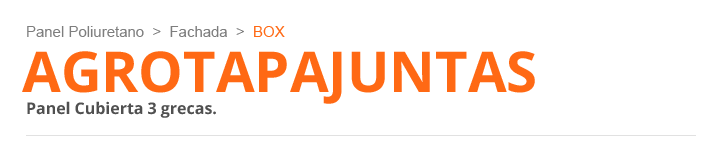
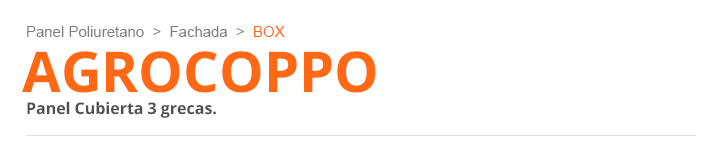
Perfiles

diff --git a/productos/poliuretano/agropanel/agrocoppo.html b/productos/poliuretano/agropanel/agrocoppo.html
@@ -1,0 +1,52 @@
+<section class="producto">
+  <div class="nombreProducto">
+    <h2>AGROCOPPO</h2><span class="rutaProducto">Panel Poliuretano / Agropanel / Agrocoppo</span>
+  </div>
+  <hr>
+  <div class="row">
+  	<div class="col-sm-6">
+  		<!--<p class="subtitutlo fnaranja">Panel Cubierta 3 grecas.</p>-->
+  		<p>Sobrecargas admisibles uniformemente distribuidas en kg/m2 (Ratio de conversión 1kg/m2 = 0,00981 KN/m2).<br>
+Las tablas se han desarrollado para paneles con soportes de acero, imponiendo la limitación de deformación: Flecha f=1/200 l.
+Coeficiente de seguridad K=2.5
+		</p>
+  	</div>
+  	<div class="col-sm-6">
+  		<img src="productos/poliuretano/agropanel/agrocoppo.png" class="img-responsive">
+  	</div>
+  </div>
+  <p class="subtitutlo fnaranja">Versión 1. Paneles Solapables. Para Instalaciones.</p>
+  <div class="row">
+    <div class="col-sm-6">
+      <img src="productos/poliuretano/agropanel/aversion1.png" class="img-responsive">
+    </div>
+    <div class="col-sm-6">
+      <p> Cada medida debe ser un múltiplo de 350 mm (+180 mm) en un intervalo comprendido entre 2,280 mm y 12,480 mm.</p>
+    </div>
+  </div>
+  <p class="subtitutlo fnaranja">Versión 2. Paneles no solapables. Para Almacenes.</p>
+  <div class="row">
+    <div class="col-sm-6">
+      <img src="productos/poliuretano/agropanel/aversion2.png" class="img-responsive">
+    </div>
+    <div class="col-sm-6">
+        <p>Cada medida debe ser un múltiplo de 350 mm en un intervalo comprendido entre 2,100 mm y 13,300 mm.</p>
+    </div>
+  </div>
+  <!-- tablas ocultas en xs -->
+  <div class="tabas hidden-xs text-center">
+    <span class="">Espesor (mm)</span>
+  	<img src="productos/poliuretano/agropanel/acespesor1.png">
+
+    <hr>
+    <img src="productos/poliuretano/agropanel/actabla1.png" class="img-responsive inline">
+
+   
+    
+  </div>
+  <!-- boton pdf -->
+  <div class="pdf">
+  	<button type="button" class="btn btn-success btn-lg btn-block">Más Especificaciones</button>
+  </div>
+
+</section>

diff --git a/productos/perfiles/cumbrera.html b/productos/perfiles/cumbrera.html
@@ -1,0 +1,53 @@
+<section class="producto">
+  <div class="nombreProducto">
+    <h2>CUMBRERA</h2><span class="rutaProducto">Perfiles / Cumbrera</span>
+  </div>
+  <hr>
+  <div class="row">
+  	<div class="col-sm-12">
+  		<p class="subtitutlo fnaranja">Caballete liso / Cumbrera / Parteaguas.</p>
+  		<p>Se fabrica en lámina pintro calibre 24 y 26. Se utiliza en los techos y cubiertas para cubrir y unir dos aguas Los desarrollos estándar son de 45 en largos de 3.05 metros</p>
+      <br>
+     
+  	</div>
+  </div>
+   <p class="subtitutlo fnaranja">Accesorios para tipo coppo</p>
+     
+  <div class="row">
+    <div class="col-sm-6">
+      
+        - Cumbrera tipo coppo.<br>
+        - Remate junta-pared.<br>
+        - Canalón.<br>
+        - Remate lateral.
+      
+    </div>
+    <div class="col-sm-6">
+      - Closure.<br>
+      - Placas de fijacion.<br>
+      - Pijas.
+  
+    </div>
+     <img src="productos/perfiles/coppo.png" class="img-responsive">
+     <!--<div class="col-sm-6">
+  		<img src="productos/perfiles/placafijacion.png" class="img-responsive">
+  	</div>-->
+  </div>
+  <!-- tablas ocultas en xs -->
+  <!--<div class="tabas hidden-xs text-center">
+    <span class="">Espesor (mm)</span>
+  	<img src="productos/lanamineral/construccion/twrespesor1.png">
+    <hr>
+    
+    <img src="productos/lanamineral/construccion/mwtabla1.png" class="img-responsive inline">
+    <br><br>
+    <p class="text-center">Esquema Estático - Cuatro Apoyos - Distancia entre apoyos en cm.</p>
+    <img src="productos/lanamineral/construccion/twrtabla2.png" class="img-responsive inline">
+    <p class="text-center">Las tablas se han desarrollado para paneles con soportes de acero, de 0,6 mm en el exterior y 0,5 mm en el interior, imponiendo la limitación de deformación: f=1/200 L</p>
+  </div>-->
+  <!-- boton pdf -->
+  <div class="pdf">
+  	<button type="button" class="btn btn-success btn-lg btn-block">Más Especificaciones</button>
+  </div>
+
+</section>

diff --git a/productos/perfiles/canalu.html b/productos/perfiles/canalu.html
@@ -1,0 +1,38 @@
+<section class="producto">
+  <div class="nombreProducto">
+    <h2>CANAL U</h2><span class="rutaProducto">Perfiles / Canal U</span>
+  </div>
+  <hr>
+  <div class="row">
+  	<div class="col-sm-6">
+  		<p class="subtitutlo fnaranja">Canal de desplante.</p>
+  		<p>Se fabrica en lámina pintro calibre 20, 22 y 24.<br>
+        Se utiliza como base, unida a un firme como guía para la instalación de panel para muro.
+        <br><br>
+         Otra de sus aplicaciones es utilizarlo como marco perimetral para ocultar el poliuretano del panel en detalles arquitectónicos de ventanas, y puertas.<br>
+        Se fabrica de acuerdo al espesor del panel en largos de 3.05 metros
+
+		</p>
+  	</div>
+     <div class="col-sm-6">
+  		<img src="productos/perfiles/canalu.png" class="img-responsive">
+  	</div>
+  </div>
+  <!-- tablas ocultas en xs -->
+  <!--<div class="tabas hidden-xs text-center">
+    <span class="">Espesor (mm)</span>
+  	<img src="productos/lanamineral/construccion/twrespesor1.png">
+    <hr>
+    
+    <img src="productos/lanamineral/construccion/mwtabla1.png" class="img-responsive inline">
+    <br><br>
+    <p class="text-center">Esquema Estático - Cuatro Apoyos - Distancia entre apoyos en cm.</p>
+    <img src="productos/lanamineral/construccion/twrtabla2.png" class="img-responsive inline">
+    <p class="text-center">Las tablas se han desarrollado para paneles con soportes de acero, de 0,6 mm en el exterior y 0,5 mm en el interior, imponiendo la limitación de deformación: f=1/200 L</p>
+  </div>-->
+  <!-- boton pdf -->
+  <div class="pdf">
+  	<button type="button" class="btn btn-success btn-lg btn-block">Más Especificaciones</button>
+  </div>
+
+</section>

diff --git a/productos/perfiles/esquineroint.html b/productos/perfiles/esquineroint.html
@@ -1,0 +1,36 @@
+<section class="producto">
+  <div class="nombreProducto">
+    <h2>ESQUINERO INTERIOR</h2><span class="rutaProducto">Perfiles / Esquinero Interior</span>
+  </div>
+  <hr>
+  <div class="row">
+  	<div class="col-sm-6">
+  		<p class="subtitutlo fnaranja">Remate de ángulo recto ”L”.</p>
+  		<p>Se fabrica en lámina pintro en calibre 22 y 24. 
+        <br><br>
+        Se utiliza para unir panel con pared, panel con panel, panel con techo y en esquinas o vueltas interiores. Tiene un desarrollo estándar de 16 cm en largos de 3.05 metros.
+
+		</p>
+  	</div>
+     <div class="col-sm-6">
+  		<img src="productos/perfiles/esqint.png" class="img-responsive">
+  	</div>
+  </div>
+  <!-- tablas ocultas en xs -->
+  <!--<div class="tabas hidden-xs text-center">
+    <span class="">Espesor (mm)</span>
+  	<img src="productos/lanamineral/construccion/twrespesor1.png">
+    <hr>
+    
+    <img src="productos/lanamineral/construccion/mwtabla1.png" class="img-responsive inline">
+    <br><br>
+    <p class="text-center">Esquema Estático - Cuatro Apoyos - Distancia entre apoyos en cm.</p>
+    <img src="productos/lanamineral/construccion/twrtabla2.png" class="img-responsive inline">
+    <p class="text-center">Las tablas se han desarrollado para paneles con soportes de acero, de 0,6 mm en el exterior y 0,5 mm en el interior, imponiendo la limitación de deformación: f=1/200 L</p>
+  </div>-->
+  <!-- boton pdf -->
+  <div class="pdf">
+  	<button type="button" class="btn btn-success btn-lg btn-block">Más Especificaciones</button>
+  </div>
+
+</section>

diff --git a/productos/perfiles/pijaspuntadebroca.html b/productos/perfiles/pijaspuntadebroca.html
@@ -1,0 +1,36 @@
+<section class="producto">
+  <div class="nombreProducto">
+    <h2>PIJAS PUNTA DE BROCA</h2><span class="rutaProducto">Perfiles / Pijas Punta de Broca</span>
+  </div>
+  <hr>
+  <div class="row">
+  	<div class="col-sm-6">
+  		<p class="subtitutlo fnaranja">Pija punta de broca para muro.</p>
+  		<!--<p>Se fabrica en lámina pintro en calibre 22 y 24.
+      <br><br>
+       Se utiliza para unir panel con pared o panel con panel en esquinas o vueltas exteriores. Se fabrica de acuerdo al espesor del panel en largos de 3.05 metros.-->
+
+		</p>
+  	</div>
+     <div class="col-sm-6">
+  		<img src="productos/perfiles/pijabroca.png" class="img-responsive">
+  	</div>
+  </div>
+  <!-- tablas ocultas en xs -->
+  <!--<div class="tabas hidden-xs text-center">
+    <span class="">Espesor (mm)</span>
+  	<img src="productos/lanamineral/construccion/twrespesor1.png">
+    <hr>
+    
+    <img src="productos/lanamineral/construccion/mwtabla1.png" class="img-responsive inline">
+    <br><br>
+    <p class="text-center">Esquema Estático - Cuatro Apoyos - Distancia entre apoyos en cm.</p>
+    <img src="productos/lanamineral/construccion/twrtabla2.png" class="img-responsive inline">
+    <p class="text-center">Las tablas se han desarrollado para paneles con soportes de acero, de 0,6 mm en el exterior y 0,5 mm en el interior, imponiendo la limitación de deformación: f=1/200 L</p>
+  </div>-->
+  <!-- boton pdf -->
+  <div class="pdf">
+  	<button type="button" class="btn btn-success btn-lg btn-block">Más Especificaciones</button>
+  </div>
+
+</section>

diff --git a/productos/perfiles/esquineroext.html b/productos/perfiles/esquineroext.html
@@ -1,0 +1,36 @@
+<section class="producto">
+  <div class="nombreProducto">
+    <h2>ESQUINERO EXTERIOR</h2><span class="rutaProducto">Perfiles / Esquinero Exterior</span>
+  </div>
+  <hr>
+  <div class="row">
+  	<div class="col-sm-6">
+  		<p class="subtitutlo fnaranja">Remate de ángulo recto ”L”.</p>
+  		<p>Se fabrica en lámina pintro en calibre 22 y 24.
+      <br><br>
+       Se utiliza para unir panel con pared o panel con panel en esquinas o vueltas exteriores. Se fabrica de acuerdo al espesor del panel en largos de 3.05 metros.
+
+		</p>
+  	</div>
+     <div class="col-sm-6">
+  		<img src="productos/perfiles/esqext.png" class="img-responsive">
+  	</div>
+  </div>
+  <!-- tablas ocultas en xs -->
+  <!--<div class="tabas hidden-xs text-center">
+    <span class="">Espesor (mm)</span>
+  	<img src="productos/lanamineral/construccion/twrespesor1.png">
+    <hr>
+    
+    <img src="productos/lanamineral/construccion/mwtabla1.png" class="img-responsive inline">
+    <br><br>
+    <p class="text-center">Esquema Estático - Cuatro Apoyos - Distancia entre apoyos en cm.</p>
+    <img src="productos/lanamineral/construccion/twrtabla2.png" class="img-responsive inline">
+    <p class="text-center">Las tablas se han desarrollado para paneles con soportes de acero, de 0,6 mm en el exterior y 0,5 mm en el interior, imponiendo la limitación de deformación: f=1/200 L</p>
+  </div>-->
+  <!-- boton pdf -->
+  <div class="pdf">
+  	<button type="button" class="btn btn-success btn-lg btn-block">Más Especificaciones</button>
+  </div>
+
+</section>

diff --git a/productos/perfiles/closure.html b/productos/perfiles/closure.html
@@ -1,0 +1,34 @@
+<section class="producto">
+  <div class="nombreProducto">
+    <h2>CLOSURE</h2><span class="rutaProducto">Perfiles / Closure</span>
+  </div>
+  <hr>
+  <div class="row">
+  	<div class="col-sm-6">
+  		<p class="subtitutlo fnaranja">Sello de Polietileno.</p>
+  		<p>Diseñado para cada perfil de lámina acanalada y consigue rellenar precisamente los huecos que quedan entre  láminas acanaladas y superficies lisas tales como los remates y molduras.
+
+		</p>
+  	</div>
+     <!--<div class="col-sm-6">
+  		<img src="productos/perfiles/placafijacion.png" class="img-responsive">
+  	</div>-->
+  </div>
+  <!-- tablas ocultas en xs -->
+  <!--<div class="tabas hidden-xs text-center">
+    <span class="">Espesor (mm)</span>
+  	<img src="productos/lanamineral/construccion/twrespesor1.png">
+    <hr>
+    
+    <img src="productos/lanamineral/construccion/mwtabla1.png" class="img-responsive inline">
+    <br><br>
+    <p class="text-center">Esquema Estático - Cuatro Apoyos - Distancia entre apoyos en cm.</p>
+    <img src="productos/lanamineral/construccion/twrtabla2.png" class="img-responsive inline">
+    <p class="text-center">Las tablas se han desarrollado para paneles con soportes de acero, de 0,6 mm en el exterior y 0,5 mm en el interior, imponiendo la limitación de deformación: f=1/200 L</p>
+  </div>-->
+  <!-- boton pdf -->
+  <div class="pdf">
+  	<button type="button" class="btn btn-success btn-lg btn-block">Más Especificaciones</button>
+  </div>
+
+</section>

diff --git a/productos/perfiles/placasfijaciontecho.html b/productos/perfiles/placasfijaciontecho.html
@@ -1,0 +1,33 @@
+<section class="producto">
+  <div class="nombreProducto">
+    <h2>PLACAS DE FIJACIÓN PARA TECHO</h2><span class="rutaProducto">Perfiles / Placas de Fijación para Techo</span>
+  </div>
+  <hr>
+  <div class="row">
+  	<div class="col-sm-12">
+  		<p class="subtitutlo fnaranja">Pija Hexagonal 14 X 4"</p>
+  		<p>Punta broca para techo.
+
+		</p>
+    <img src="productos/perfiles/placafijacion.png" class="img-responsive">
+  	</div>
+     
+  </div>
+  <!-- tablas ocultas en xs -->
+  <!--<div class="tabas hidden-xs text-center">
+    <span class="">Espesor (mm)</span>
+  	<img src="productos/lanamineral/construccion/twrespesor1.png">
+    <hr>
+    
+    <img src="productos/lanamineral/construccion/mwtabla1.png" class="img-responsive inline">
+    <br><br>
+    <p class="text-center">Esquema Estático - Cuatro Apoyos - Distancia entre apoyos en cm.</p>
+    <img src="productos/lanamineral/construccion/twrtabla2.png" class="img-responsive inline">
+    <p class="text-center">Las tablas se han desarrollado para paneles con soportes de acero, de 0,6 mm en el exterior y 0,5 mm en el interior, imponiendo la limitación de deformación: f=1/200 L</p>
+  </div>-->
+  <!-- boton pdf -->
+  <div class="pdf">
+  	<button type="button" class="btn btn-success btn-lg btn-block">Más Especificaciones</button>
+  </div>
+
+</section>

diff --git a/productos.php b/productos.php
@@ -94,9 +94,13 @@
                                 <a class="manuLaretal-link" data-toggle="collapse" data-parent="#menuLateral" href="#perfiles">
                                 <h4> Perfiles</h4></a>
                                 <ul id="perfiles" class="collapse manuLaretal-lista subMenuLateral">
-                                   <li><a class="cargaPagina" data-producto="canalu" data-cat="perfiles/-">Canal U</a></li>
-                                   <li>cuatro</li>
-                                   <li>cinco</li>
+                                   <li><a class="cargaPagina" data-producto="canalu" data-cat="perfiles/">Canal U</a></li>
+                                   <li><a class="cargaPagina" data-producto="esquineroint" data-cat="perfiles/">Esquinero Interior</a></li>
+                                   <li><a class="cargaPagina" data-producto="esquineroext" data-cat="perfiles/">Esquinero Exterior</a></li>
+                                   <li><a class="cargaPagina" data-producto="pijaspuntadebroca" data-cat="perfiles/">Pijas Punta de Broca</a></li>
+                                   <li><a class="cargaPagina" data-producto="placasfijaciontecho" data-cat="perfiles/">Placas de Fijación para Techo</a></li>
+                                   <li><a class="cargaPagina" data-producto="closure" data-cat="perfiles/">Closure</a></li>
+                                   <li><a class="cargaPagina" data-producto="cumbrera" data-cat="perfiles/">Cumbrera</a></li>
                                 </ul>
                             </div>
                         </nav>
